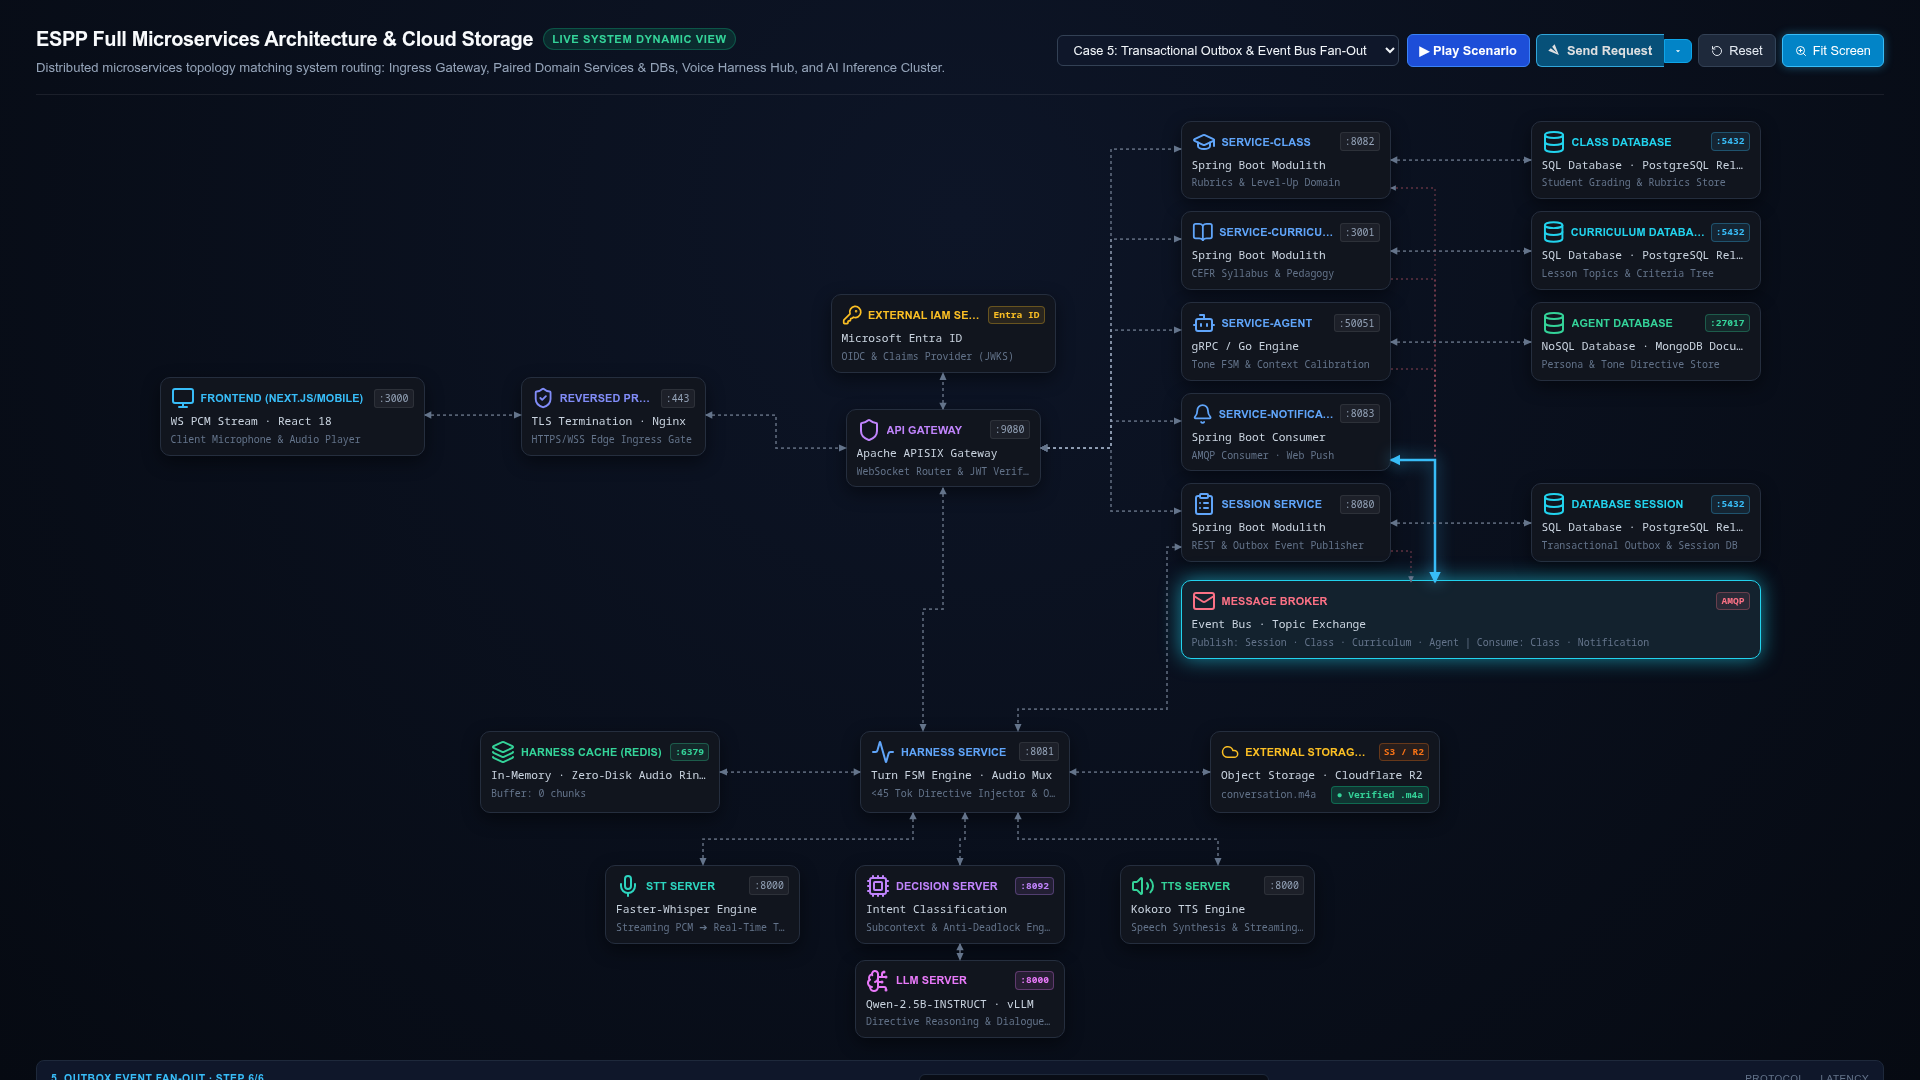
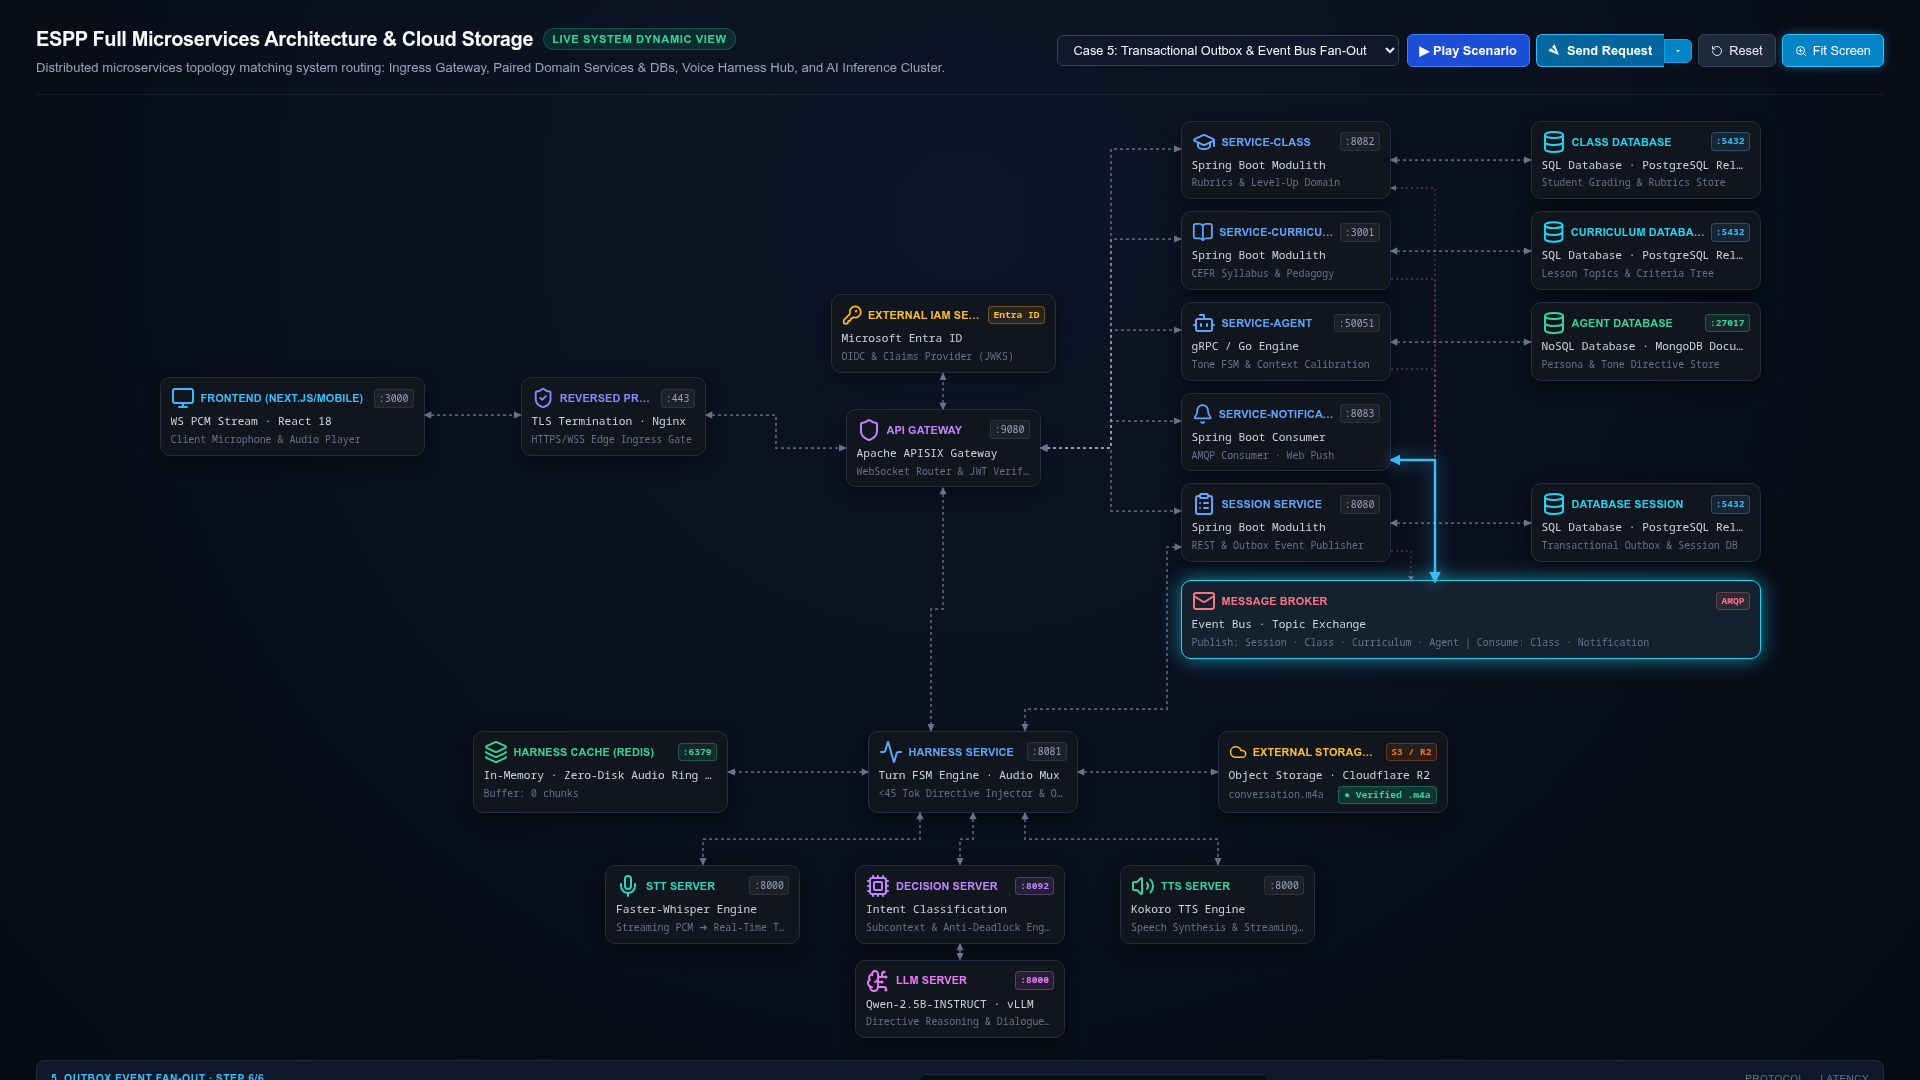
feat(full-arch): add Case 2 batch sizes (1..100) and replace SMIL with RAF packet dot animation

diff --git a/src/diagrams/full-architecture/engine.js b/src/diagrams/full-architecture/engine.js
@@ -52,13 +52,29 @@
       };
       this.boundHandlers = {};
       this._activeMvcTimeouts = [];
+      this._activeSleepResolvers = [];
+      this._activePacketAnimations = [];
+      this._batchSpeedFactor = 1.0;
       this._playToken = 0;
       this._playRun = 0;
       this._stepPromise = null;
     }
 
     sleep(ms) {
-      return new Promise((resolve) => setTimeout(resolve, ms));
+      return new Promise((resolve) => {
+        let t = null;
+        const cleanup = () => {
+          if (this._activeSleepResolvers) {
+            const idx = this._activeSleepResolvers.indexOf(cleanup);
+            if (idx !== -1) this._activeSleepResolvers.splice(idx, 1);
+          }
+          if (t) clearTimeout(t);
+          resolve();
+        };
+        t = setTimeout(cleanup, ms);
+        this._activeSleepResolvers = this._activeSleepResolvers || [];
+        this._activeSleepResolvers.push(cleanup);
+      });
     }
 
     getHops(step) {
@@ -413,9 +429,13 @@
       group.appendChild(labelGroup);
       packetsGroup.appendChild(group);
 
-      setTimeout(() => {
+      const speedFactor = this._batchSpeedFactor || 1.0;
+      const loopDur = Math.max(100, Math.round(1200 / speedFactor));
+      const t = setTimeout(() => {
         try { group.remove(); } catch (e) {}
-      }, 1200);
+      }, loopDur);
+      this._activeMvcTimeouts = this._activeMvcTimeouts || [];
+      this._activeMvcTimeouts.push(t);
     }
 
     async playStep(step, highlightClass) {
@@ -423,6 +443,8 @@
       const token = this._playToken;
       const hops = this.getHops(step);
       const isRespStep = Boolean(step.isResponse);
+      const speedFactor = this._batchSpeedFactor || 1.0;
+      const hopMs = Math.max(70, Math.round(HOP_MS / speedFactor));
 
       if (isRespStep) {
         this.renderResponsePhase(step);
@@ -431,13 +453,13 @@
       if (hops.length === 1) {
         this.pulseNode(hops[0]);
         this.emitSelfLoopVisual(hops[0], step.label, highlightClass);
-        await this.sleep(HOP_MS);
+        await this.sleep(hopMs);
         if (token !== this._playToken) return;
       } else {
         for (let i = 0; i < hops.length - 1; i++) {
           this.highlightPath(hops[i], hops[i + 1], highlightClass, true);
           this.emitPacket(hops[i], hops[i + 1], highlightClass, step.label, isRespStep);
-          await this.sleep(HOP_MS);
+          await this.sleep(hopMs);
           if (token !== this._playToken) return;
           this.pulseNode(hops[i + 1]);
         }
@@ -448,13 +470,13 @@
       if (hops.length === 1) {
         this.pulseNode(hops[0]);
         this.emitSelfLoopVisual(hops[0], step.response.label, highlightClass);
-        await this.sleep(HOP_MS);
+        await this.sleep(hopMs);
         if (token !== this._playToken) return;
       } else {
         for (let i = hops.length - 1; i > 0; i--) {
           this.highlightPath(hops[i], hops[i - 1], highlightClass, true);
           this.emitPacket(hops[i], hops[i - 1], highlightClass, step.response.label, true);
-          await this.sleep(HOP_MS);
+          await this.sleep(hopMs);
           if (token !== this._playToken) return;
           this.pulseNode(hops[i - 1]);
         }
@@ -494,9 +516,20 @@
 
     pause() {
       this.state.isPlaying = false;
+      this.state.isBatchRunning = false;
+      this._batchSpeedFactor = 1.0;
       this._playRun += 1;
       this.cancelPlayback();
+      this.clearMvcAnimations();
       this.updatePlayPauseIcons();
+      if (!this.headless && typeof document !== 'undefined') {
+        const sendBtn = document.getElementById('btn-arch-send-request');
+        const labelEl = document.getElementById('label-arch-send-count');
+        if (sendBtn) sendBtn.classList.remove('sending');
+        if (labelEl) {
+          labelEl.textContent = this.state.batchSize === 1 ? 'Send Request' : `Send ${this.state.batchSize} Requests`;
+        }
+      }
     }
 
     toggleZoom() {
@@ -547,6 +580,17 @@
         this._activeMvcTimeouts.forEach((tid) => clearTimeout(tid));
         this._activeMvcTimeouts = [];
       }
+      if (this._activeSleepResolvers) {
+        const resolvers = this._activeSleepResolvers.slice();
+        this._activeSleepResolvers = [];
+        resolvers.forEach((fn) => fn());
+      }
+      if (this._activePacketAnimations) {
+        this._activePacketAnimations.forEach((anim) => {
+          if (typeof anim.cancel === 'function') anim.cancel();
+        });
+        this._activePacketAnimations = [];
+      }
       if (!this.headless && typeof document !== 'undefined') {
         const packetsGroup = document.getElementById('svg-packets-group');
         if (packetsGroup) {
@@ -561,6 +605,9 @@
         return Promise.resolve();
       }
 
+      const speedFactor = this._batchSpeedFactor || 1.0;
+      const mvcDuration = Math.max(30, Math.round(350 / speedFactor));
+
       return new Promise((resolve) => {
         const nodeEl = document.getElementById(`node-${nodeId}`);
         if (nodeEl) {
@@ -569,7 +616,7 @@
             nodeEl.classList.remove('node-active-cyan');
             if (typeof callback === 'function') callback();
             resolve();
-          }, 350);
+          }, mvcDuration);
           this._activeMvcTimeouts = this._activeMvcTimeouts || [];
           this._activeMvcTimeouts.push(t);
         } else {
@@ -607,20 +654,14 @@
       group.setAttribute('class', isResponse ? 'moving-packet moving-packet-response' : 'moving-packet');
       group.setAttribute('style', `color: ${fillColor}`);
 
-      const dotGroup = document.createElementNS('http://www.w3.org/2000/svg', 'g');
-      const anim = document.createElementNS('http://www.w3.org/2000/svg', 'animateMotion');
-      anim.setAttribute('path', pathD);
-      anim.setAttribute('dur', '1.1s');
-      anim.setAttribute('repeatCount', '1');
-      anim.setAttribute('fill', 'freeze');
-      dotGroup.appendChild(anim);
-
-      const circle = document.createElementNS('http://www.w3.org/2000/svg', 'circle');
-      circle.setAttribute('r', '5');
-      circle.setAttribute('class', packetClass);
-      circle.setAttribute('fill', fillColor);
-      dotGroup.appendChild(circle);
-      group.appendChild(dotGroup);
+      // Temporary path for length calculation and geometry interpolation
+      const tempPath = document.createElementNS('http://www.w3.org/2000/svg', 'path');
+      tempPath.setAttribute('d', pathD);
+      tempPath.setAttribute('fill', 'none');
+      tempPath.setAttribute('stroke', 'none');
+      tempPath.setAttribute('opacity', '0');
+      tempPath.setAttribute('pointer-events', 'none');
+      group.appendChild(tempPath);
 
       let shortLabel = label;
       if (!shortLabel && this.state) {
@@ -683,15 +724,91 @@
         group.appendChild(labelGroup);
       }
 
+      const circle = document.createElementNS('http://www.w3.org/2000/svg', 'circle');
+      circle.setAttribute('r', '5');
+      circle.setAttribute('class', packetClass);
+      circle.setAttribute('fill', fillColor);
+
       packetsGroup.appendChild(group);
 
-      if (typeof anim.beginElement === 'function') {
-        try { anim.beginElement(); } catch (e) {}
+      let totalLen = 0;
+      let startPt = { x: 0, y: 0 };
+      try {
+        totalLen = tempPath.getTotalLength();
+        if (totalLen > 0) {
+          const pt = tempPath.getPointAtLength(0);
+          startPt = { x: pt.x, y: pt.y };
+        }
+      } catch (e) {
+        totalLen = 0;
       }
 
-      setTimeout(() => {
-        try { group.remove(); } catch (e) {}
-      }, 1200);
+      circle.setAttribute('cx', String(startPt.x));
+      circle.setAttribute('cy', String(startPt.y));
+      group.appendChild(circle);
+
+      const speedFactor = this._batchSpeedFactor || 1.0;
+      const baseDuration = 1100;
+      const duration = Math.max(70, Math.round(baseDuration / speedFactor));
+
+      let startTime = null;
+      let rafId = null;
+      let isDone = false;
+      let safetyTimeout = null;
+
+      const animEntry = {
+        group,
+        cancel: () => {
+          if (isDone) return;
+          isDone = true;
+          if (rafId) cancelAnimationFrame(rafId);
+          if (safetyTimeout) clearTimeout(safetyTimeout);
+          try { group.remove(); } catch (e) {}
+        }
+      };
+
+      this._activePacketAnimations = this._activePacketAnimations || [];
+      this._activePacketAnimations.push(animEntry);
+
+      const stepAnim = (timestamp) => {
+        if (isDone) return;
+        if (!startTime) startTime = timestamp;
+        const elapsed = timestamp - startTime;
+        const progress = duration > 0 ? Math.min(elapsed / duration, 1) : 1;
+
+        if (totalLen > 0) {
+          try {
+            const pt = tempPath.getPointAtLength(progress * totalLen);
+            circle.setAttribute('cx', String(pt.x));
+            circle.setAttribute('cy', String(pt.y));
+          } catch (e) {}
+        }
+
+        if (progress < 1) {
+          rafId = requestAnimationFrame(stepAnim);
+        } else {
+          isDone = true;
+          if (safetyTimeout) clearTimeout(safetyTimeout);
+          const idx = this._activePacketAnimations ? this._activePacketAnimations.indexOf(animEntry) : -1;
+          if (idx !== -1) this._activePacketAnimations.splice(idx, 1);
+          try { group.remove(); } catch (e) {}
+        }
+      };
+
+      rafId = requestAnimationFrame(stepAnim);
+
+      safetyTimeout = setTimeout(() => {
+        animEntry.cancel();
+      }, duration + 400);
+    }
+
+    getBatchSpeedFactor(numRequests) {
+      if (numRequests >= 100) return 14.0;
+      if (numRequests >= 50) return 9.0;
+      if (numRequests >= 20) return 5.0;
+      if (numRequests >= 10) return 3.0;
+      if (numRequests >= 5) return 1.8;
+      return 1.0;
     }
 
     async sendRequest(count) {
@@ -706,6 +823,8 @@
       }
 
       this.state.isBatchRunning = true;
+      const speedFactor = this.getBatchSpeedFactor(numRequests);
+      this._batchSpeedFactor = speedFactor;
 
       const sendBtn = document.getElementById('btn-arch-send-request');
       const labelEl = document.getElementById('label-arch-send-count');
@@ -713,6 +832,9 @@
 
       const currentCase = this.scenarios.find((s) => s.id === this.state.activeCaseId) || this.scenarios[0];
       const totalSteps = currentCase.steps.length;
+
+      const stepSleepMs = Math.max(10, Math.round(150 / speedFactor));
+      const interReqGap = Math.max(15, Math.round(400 / speedFactor));
 
       try {
         for (let req = 1; req <= numRequests; req++) {
@@ -750,15 +872,16 @@
             await this.playStep(step, highlightClass);
             if (!this.state.isBatchRunning) break;
 
-            await this.sleep(150);
+            await this.sleep(stepSleepMs);
           }
 
           if (req < numRequests && this.state.isBatchRunning) {
-            await new Promise((r) => setTimeout(r, 400));
+            await this.sleep(interReqGap);
           }
         }
       } finally {
         this.state.isBatchRunning = false;
+        this._batchSpeedFactor = 1.0;
         if (sendBtn) sendBtn.classList.remove('sending');
         if (labelEl) {
           labelEl.textContent = this.state.batchSize === 1 ? 'Send Request' : `Send ${this.state.batchSize} Requests`;
@@ -770,6 +893,7 @@
       this.pause();
       this.cancelPlayback();
       this.state.isBatchRunning = false;
+      this._batchSpeedFactor = 1.0;
       this.clearMvcAnimations();
       this.state.stepIndex = 0;
       this.state.audioChunksCount = 0;

diff --git a/src/diagrams/full-architecture/template.js b/src/diagrams/full-architecture/template.js
@@ -88,13 +88,25 @@
                   <span>Send 1 Request</span>
                   <span class="batch-badge">1x</span>
                 </button>
-                <button class="dropdown-batch-item" data-count="3">
-                  <span>Send 3 Requests</span>
-                  <span class="batch-badge">3x</span>
-                </button>
                 <button class="dropdown-batch-item" data-count="5">
                   <span>Send 5 Requests</span>
                   <span class="batch-badge">5x</span>
+                </button>
+                <button class="dropdown-batch-item" data-count="10">
+                  <span>Send 10 Requests</span>
+                  <span class="batch-badge">10x</span>
+                </button>
+                <button class="dropdown-batch-item" data-count="20">
+                  <span>Send 20 Requests</span>
+                  <span class="batch-badge">20x</span>
+                </button>
+                <button class="dropdown-batch-item" data-count="50">
+                  <span>Send 50 Requests</span>
+                  <span class="batch-badge">50x</span>
+                </button>
+                <button class="dropdown-batch-item" data-count="100">
+                  <span>Send 100 Requests</span>
+                  <span class="batch-badge">100x</span>
                 </button>
               </div>
             </div>

diff --git a/src/diagrams/full-architecture/styles.css b/src/diagrams/full-architecture/styles.css
@@ -255,10 +255,29 @@
   box-shadow: 0 10px 25px rgba(0, 0, 0, 0.5);
   padding: 4px;
   z-index: 50;
-  min-width: 140px;
+  min-width: 155px;
+  max-height: 240px;
+  overflow-y: auto;
   display: flex;
   flex-direction: column;
   gap: 2px;
+}
+
+.dropdown-arch-batch::-webkit-scrollbar {
+  width: 4px;
+}
+
+.dropdown-arch-batch::-webkit-scrollbar-track {
+  background: transparent;
+}
+
+.dropdown-arch-batch::-webkit-scrollbar-thumb {
+  background: #334155;
+  border-radius: 2px;
+}
+
+.dropdown-arch-batch::-webkit-scrollbar-thumb:hover {
+  background: #475569;
 }
 
 .dropdown-arch-batch.hidden {
@@ -456,7 +475,7 @@
 }
 
 #node-redis {
-  width: 240px;
+  width: 255px;
   flex-shrink: 0;
 }
 
